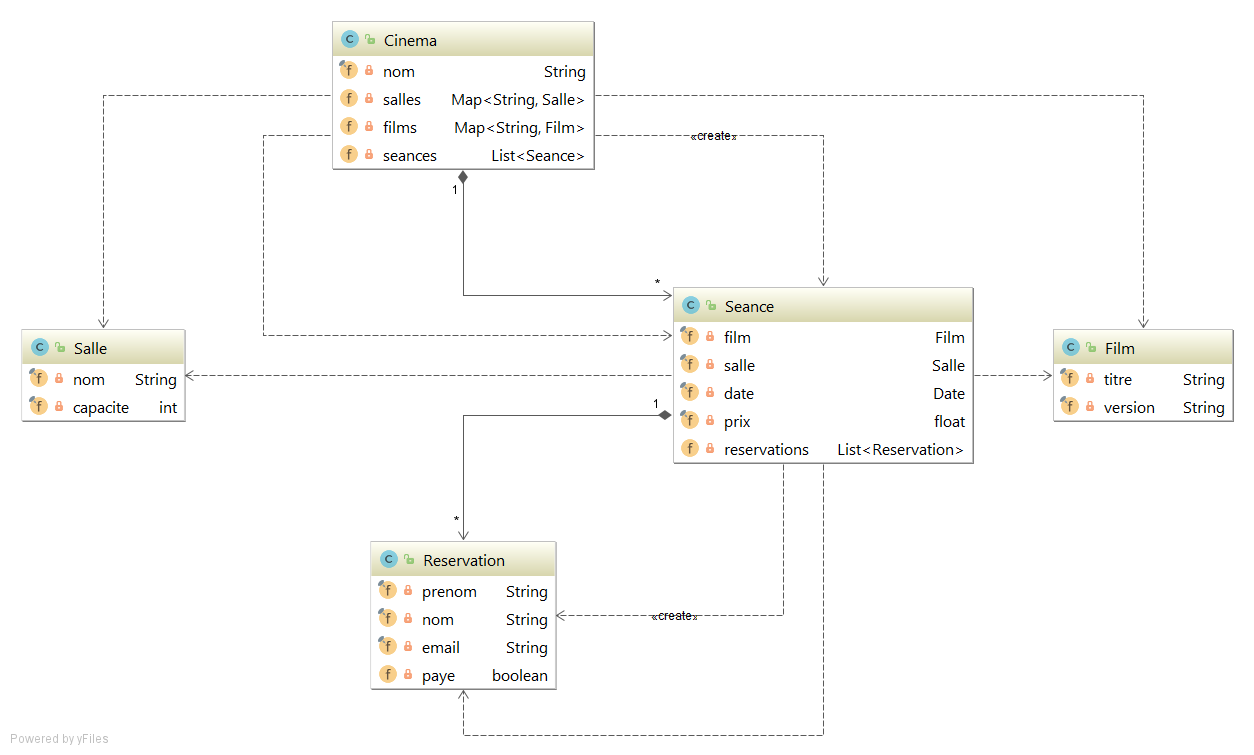
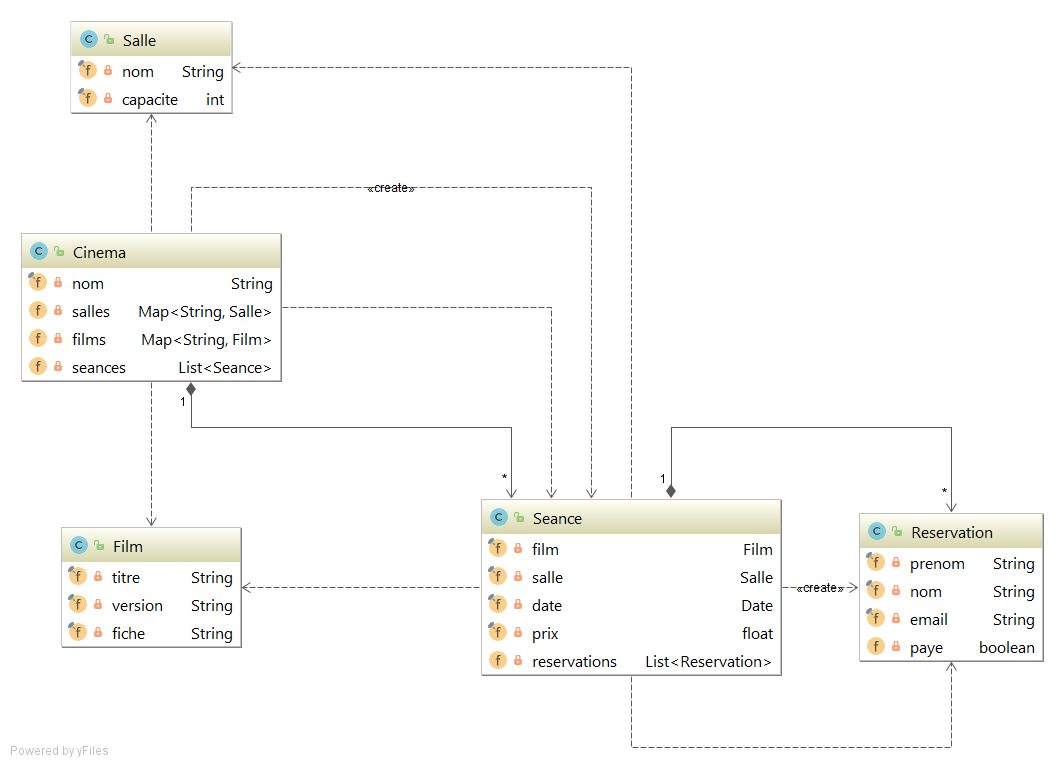
Added extra field in Film.

diff --git a/metier-base/src/main/java/fr/univlyon1/m2tiw/tiw1/metier/Film.java b/metier-base/src/main/java/fr/univlyon1/m2tiw/tiw1/metier/Film.java
@@ -2,11 +2,15 @@ package fr.univlyon1.m2tiw.tiw1.metier;
 
 public class Film {
     private final String titre;
+    //Langue du film (VO, VF...)
     private final String version;
+    //La fiche du film sur Linked Movie Database
+    private final String fiche;
 
-    public Film(String titre, String version) {
+    public Film(String titre, String version, String fiche) {
         this.titre = titre;
         this.version = version;
+        this.fiche = fiche;
     }
 
     public String getTitre() {
@@ -15,5 +19,9 @@ public class Film {
 
     public String getVersion() {
         return version;
+    }
+
+    public String getFiche() {
+        return fiche;
     }
 }
